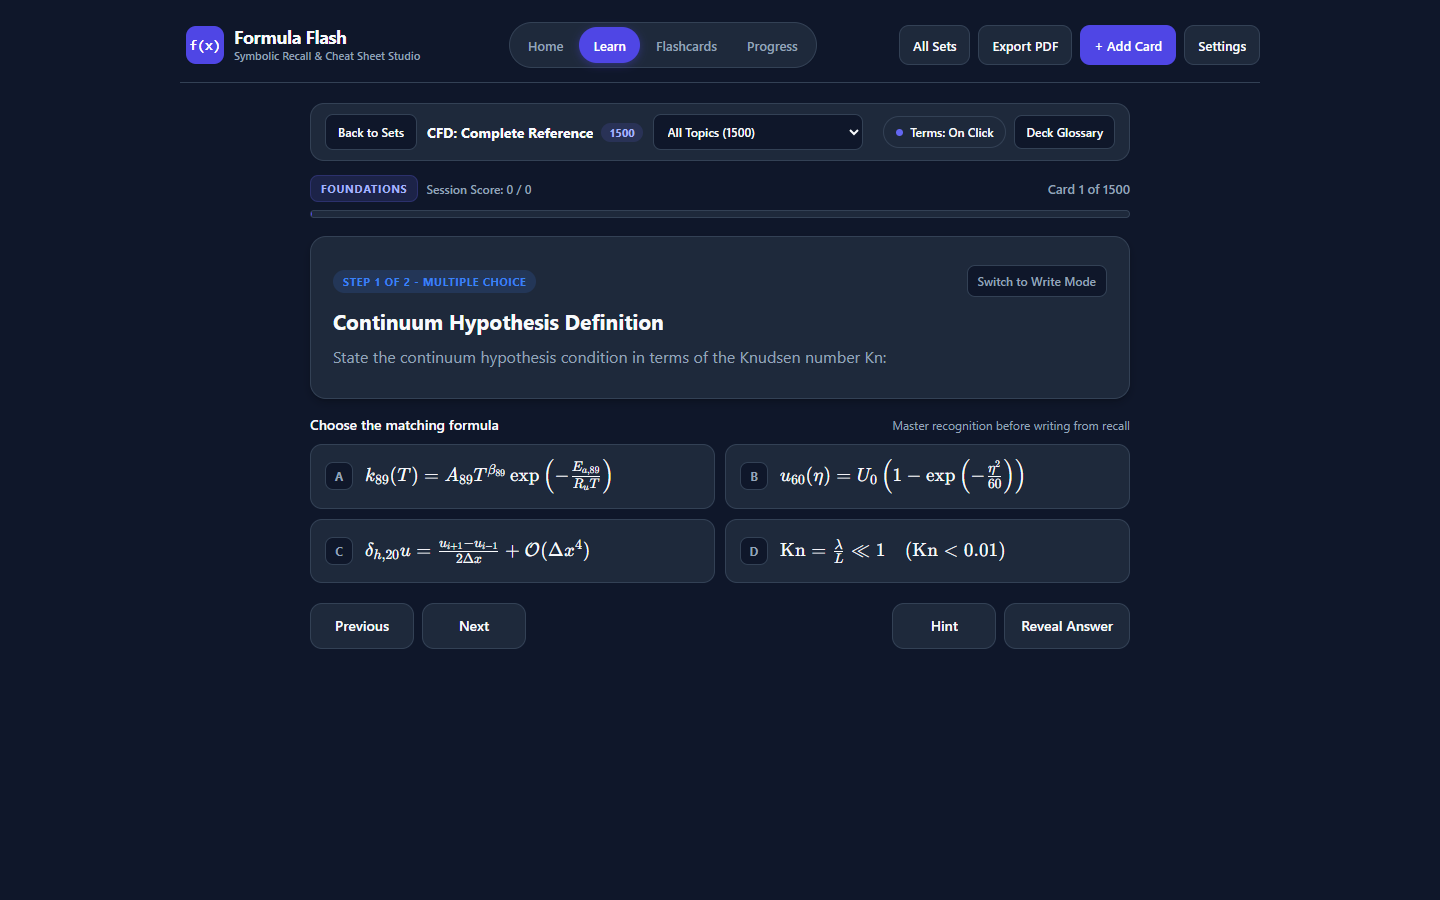
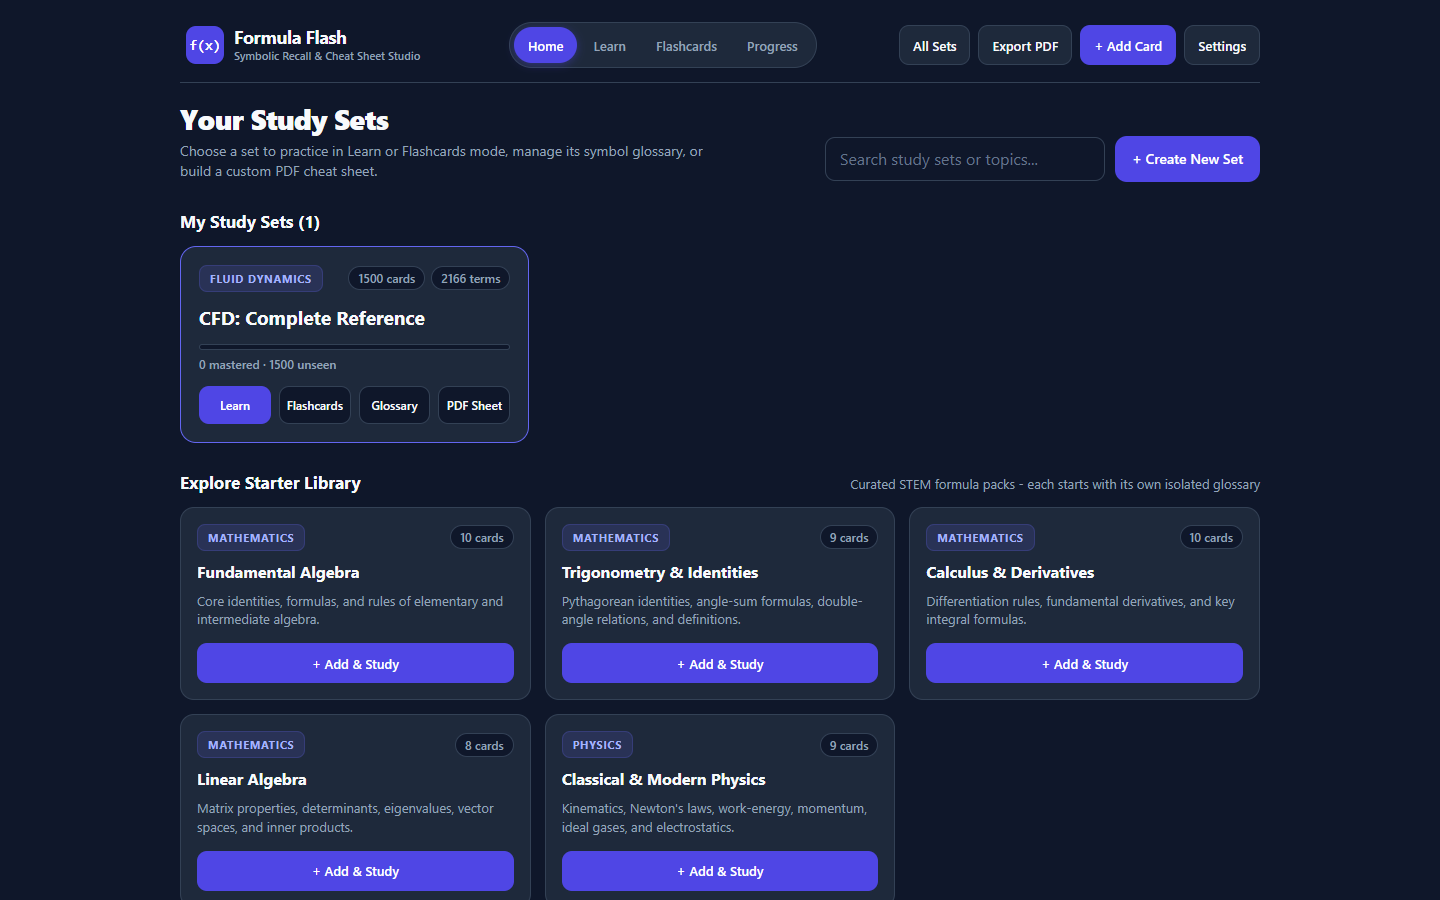
chore: refresh FormulaFlash screenshots, trailing safety section, and CI sync

diff --git a/scripts/capture_screenshots.py b/scripts/capture_screenshots.py
@@ -1,0 +1,89 @@
+"""Capture current desktop and mobile UI screenshots for FormulaFlash."""
+
+from __future__ import annotations
+
+import argparse
+from functools import partial
+from http.server import SimpleHTTPRequestHandler, ThreadingHTTPServer
+from pathlib import Path
+import sys
+import threading
+from typing import Any
+
+from playwright.sync_api import sync_playwright
+
+REPO_DIR = Path(__file__).resolve().parent.parent
+
+
+class QuietStaticHandler(SimpleHTTPRequestHandler):
+    """Static file handler that suppresses HTTP access logs."""
+
+    def log_message(self, format: str, *args: Any) -> None:
+        return
+
+
+def _launch_browser(pw: Any) -> Any:
+    try:
+        return pw.chromium.launch(headless=True)
+    except Exception:  # noqa: 10
+        return pw.chromium.launch(channel="msedge", headless=True)
+
+
+def capture_screenshots(out_dir: Path, dist_dir: Path) -> None:
+    """Serve the built FormulaFlash web bundle and capture desktop and mobile PNGs."""
+    dist_resolved = dist_dir.expanduser().resolve()
+    if not (dist_resolved / "index.html").is_file():
+        raise FileNotFoundError(f"Built bundle missing at {dist_resolved}; run pnpm --filter app run build.")
+
+    out_resolved = out_dir.expanduser().resolve()
+    out_resolved.mkdir(parents=True, exist_ok=True)
+
+    handler_cls = partial(QuietStaticHandler, directory=str(dist_resolved))
+    server = ThreadingHTTPServer(("127.0.0.1", 0), handler_cls)
+    port = int(server.server_address[1])
+    thread = threading.Thread(target=server.serve_forever, daemon=True)
+    thread.start()
+    url = f"http://127.0.0.1:{port}/"
+
+    try:
+        with sync_playwright() as pw:
+            browser = _launch_browser(pw)
+            desktop_ctx = browser.new_context(viewport={"width": 1440, "height": 900}, device_scale_factor=1)
+            page = desktop_ctx.new_page()
+            page.goto(url, wait_until="networkidle")
+            page.wait_for_selector(".home-set-card", timeout=20000)
+            page.wait_for_timeout(800)
+            page.screenshot(path=str(out_resolved / "01_main.png"), full_page=False)
+
+            page.click('[data-testid="mode-tab-study"]')
+            page.wait_for_timeout(600)
+            page.locator("button", has_text="Flip Card").click()
+            page.wait_for_timeout(800)
+            page.screenshot(path=str(out_resolved / "02_flashcards.png"), full_page=False)
+            desktop_ctx.close()
+
+            mobile_ctx = browser.new_context(viewport={"width": 390, "height": 844}, is_mobile=True, device_scale_factor=2)
+            mobile_page = mobile_ctx.new_page()
+            mobile_page.goto(url, wait_until="networkidle")
+            mobile_page.wait_for_selector(".home-set-card", timeout=20000)
+            mobile_page.wait_for_timeout(800)
+            mobile_page.screenshot(path=str(out_resolved / "03_mobile.png"), full_page=False)
+            mobile_ctx.close()
+            browser.close()
+    finally:
+        server.shutdown()
+        server.server_close()
+
+
+def main() -> int:
+    parser = argparse.ArgumentParser(description="Capture FormulaFlash UI screenshots.")
+    parser.add_argument("--out-dir", type=Path, default=REPO_DIR / "assets" / "screenshots")
+    parser.add_argument("--dist-dir", type=Path, default=REPO_DIR / "apps" / "app" / "dist")
+    args = parser.parse_args()
+    capture_screenshots(args.out_dir, args.dist_dir)
+    sys.stdout.write(f"Saved screenshots into {args.out_dir}\n")
+    return 0
+
+
+if __name__ == "__main__":
+    raise SystemExit(main())

diff --git a/README.md b/README.md
@@ -26,11 +26,12 @@ Browse release notes on [All Releases](https://github.com/DontKwo/formulaflash/r
 ## Screenshots
 
 <p align="center">
-  <img src="assets/screenshots/01_main.png" alt="FormulaFlash Learn View" width="760" />
+  <img src="assets/screenshots/01_main.png" alt="FormulaFlash Desktop Study Sets" width="540" />
+  <img src="assets/screenshots/03_mobile.png" alt="FormulaFlash Android Mobile View" width="210" />
 </p>
 
 <p align="center">
-  <img src="assets/screenshots/02_flashcards.png" alt="FormulaFlash Study Deck" width="760" />
+  <img src="assets/screenshots/02_flashcards.png" alt="FormulaFlash Flashcard Study Mode" width="760" />
 </p>
 
 ---
@@ -54,14 +55,6 @@ Browse release notes on [All Releases](https://github.com/DontKwo/formulaflash/r
 
 ---
 
-## Safety & Disclaimers
-
-- **Official `main` Releases Only**: Only download executables or APKs from [DontKwo/formulaflash](https://github.com/DontKwo/formulaflash/releases/latest) (`main` branch). Never download forked releases unless you are certain they contain no malware; only the `main` stream is maintained by the author, and I make no promises.
-- **OS & Phone Security Warnings**: Windows SmartScreen, macOS Gatekeeper, and Android Play Protect will likely warn that independently distributed apps are unrecognized or unsafe. Bypassing those prompts is strictly at your own discretion. Follow [Desktop Installation Guide](docs/INSTALLATION.md) or [Android APK Installation Guide](docs/APK_INSTALLATION.md) for instructions.
-- **AS-IS Disclaimer**: Provided "AS IS" under the [MIT License](LICENSE) with zero warranty or liability. Use at your own risk, verify critical exam formulas independently, and back up your `.flashset` decks regularly.
-
----
-
 ## Documentation
 
 ### User Documentation
@@ -76,7 +69,7 @@ Browse release notes on [All Releases](https://github.com/DontKwo/formulaflash/r
 - [Developer uv Installation](docs/UV_INSTALLATION.md)
 - [Human Setup](docs/HUMAN_SETUP.md)
 
-### AI, Mathematical Proof & Technical Documentation
+### AI & Technical Documentation
 - [AI Agent Rules](AGENTS.md)
 - [System Architecture](docs/ARCHITECTURE.md)
 - [Expression Language Specification](docs/EXPRESSION_LANGUAGE.md)
@@ -88,3 +81,11 @@ Browse release notes on [All Releases](https://github.com/DontKwo/formulaflash/r
 - [Security Policy](SECURITY.md)
 - [Third-Party Notices](THIRD_PARTY_NOTICES.md)
 - [MIT License](LICENSE)
+
+---
+
+## Safety & Disclaimers
+
+- **Official `main` Releases Only**: Only download executables or APKs from [DontKwo/formulaflash](https://github.com/DontKwo/formulaflash/releases/latest) (`main` branch). Never download forked releases unless you are certain they contain no malware; only the `main` stream is maintained by the author, and I make no promises.
+- **OS & Phone Security Warnings**: Windows SmartScreen, macOS Gatekeeper, and Android Play Protect will likely warn that independently distributed apps are unrecognized or unsafe. Bypassing those prompts is strictly at your own discretion. Follow [Desktop Installation Guide](docs/INSTALLATION.md) or [Android APK Installation Guide](docs/APK_INSTALLATION.md) for instructions.
+- **AS-IS Disclaimer**: Provided "AS IS" under the [MIT License](LICENSE) with zero warranty or liability. Use at your own risk, verify critical exam formulas independently, and back up your `.flashset` decks regularly.

diff --git a/docs/INSTALLATION.md b/docs/INSTALLATION.md
@@ -2,15 +2,11 @@
 
 Install and launch FormulaFlash on your computer without Python, Node.js, or developer tools.
 
-## Safety & Authenticity Warning
-
-- **Official `main` Releases Only**: Download FormulaFlash exclusively from [DontKwo/formulaflash Releases](https://github.com/DontKwo/formulaflash/releases/latest).
-- **Fork Warning**: Never download builds from forked repositories unless you have verified the source code yourself and know they do not contain malware. Only official `main` releases are maintained by the author, and I make no promises.
-- **Bypassing Security Prompts**: Because independent open-source executables do not carry paid commercial signing certificates, Windows and macOS will warn that the app is unrecognized or potentially unsafe. Bypassing these warnings is strictly at your own discretion, and the software is provided "AS IS" with zero liability.
-
 ---
 
-## Windows
+## Platform Instructions
+
+### Windows
 
 1. Download `FormulaFlash-Windows.exe` from [Latest Releases](https://github.com/DontKwo/formulaflash/releases/latest).
 2. Double-click `FormulaFlash-Windows.exe` to open the desktop app.
@@ -21,7 +17,7 @@ Install and launch FormulaFlash on your computer without Python, Node.js, or dev
 
 ---
 
-## macOS
+### macOS
 
 1. Download `FormulaFlash-macOS.zip` from [Latest Releases](https://github.com/DontKwo/formulaflash/releases/latest).
 2. Double-click the archive to unpack it and drag **`FormulaFlash.app`** (or the `FormulaFlash` binary) into your **Applications** folder.
@@ -33,12 +29,20 @@ Install and launch FormulaFlash on your computer without Python, Node.js, or dev
 
 ---
 
-## Linux
+### Linux
 
 1. Download `FormulaFlash-Linux.tar.gz` from [Latest Releases](https://github.com/DontKwo/formulaflash/releases/latest).
 2. Extract the archive in your file manager (or run `tar -xzf FormulaFlash-Linux.tar.gz`).
 3. Make the extracted binary executable (right-click -> **Properties** -> **Permissions** -> allow executing as program, or run `chmod +x FormulaFlash`).
 4. Double-click `FormulaFlash` to launch.
+
+---
+
+## Safety & Authenticity Warning
+
+- **Official `main` Releases Only**: Download FormulaFlash exclusively from [DontKwo/formulaflash Releases](https://github.com/DontKwo/formulaflash/releases/latest).
+- **Fork Warning**: Never download builds from forked repositories unless you have verified the source code yourself and know they do not contain malware. Only official `main` releases are maintained by the author, and I make no promises.
+- **Bypassing Security Prompts**: Because independent open-source executables do not carry paid commercial signing certificates, Windows and macOS will warn that the app is unrecognized or potentially unsafe. Bypassing these prompts is strictly at your own discretion, and the software is provided "AS IS" with zero liability.
 
 ---
 

diff --git a/docs/APK_INSTALLATION.md b/docs/APK_INSTALLATION.md
@@ -2,13 +2,6 @@
 
 Install the standalone FormulaFlash Android app directly on your Android phone or tablet (Android 8 through Android 15, including Pixel and Samsung Galaxy One UI).
 
-## Safety & Authenticity Warning
-
-- **Security Prompts Are Expected**: Your phone will likely tell you the app is unrecognized, unverified, or potentially unsafe because this `.apk` is distributed directly from GitHub outside the Google Play Store.
-- **Official `main` Releases Only**: Only `.apk` files published on the official [DontKwo/formulaflash Releases](https://github.com/DontKwo/formulaflash/releases/latest) page (`main` branch) are maintained by the author.
-- **Fork Warning**: Never download forked `.apk` releases unless you are completely sure they do not contain malware. Only official `main` releases have no malware to the best of the author's knowledge, and I still make no promises.
-- **Your Discretion & Zero Liability**: Bypassing Android security prompts is strictly at your own discretion. This software is provided "AS IS" under the [MIT License](../LICENSE) with zero warranty or liability.
-
 ---
 
 ## Step 1: Download the Official APK
@@ -73,6 +66,15 @@ After **FormulaFlash** finishes installing:
 1. Turn **Allow from this source** back **Off** for your browser or file manager.
 2. Confirm **Google Play Protect** scanning is **On**.
 3. On Samsung Galaxy devices, turn **Auto Blocker** back **On**.
+
+---
+
+## Safety & Authenticity Warning
+
+- **Security Prompts Are Expected**: Your phone will likely tell you the app is unrecognized, unverified, or potentially unsafe because this `.apk` is distributed directly from GitHub outside the Google Play Store.
+- **Official `main` Releases Only**: Only `.apk` files published on the official [DontKwo/formulaflash Releases](https://github.com/DontKwo/formulaflash/releases/latest) page (`main` branch) are maintained by the author.
+- **Fork Warning**: Never download forked `.apk` releases unless you are completely sure they do not contain malware. Only official `main` releases have no malware to the best of the author's knowledge, and I still make no promises.
+- **Your Discretion & Zero Liability**: Bypassing Android security prompts is strictly at your own discretion. This software is provided "AS IS" under the [MIT License](../LICENSE) with zero warranty or liability.
 
 ---
 

diff --git a/docs/UV_INSTALLATION.md b/docs/UV_INSTALLATION.md
@@ -6,17 +6,19 @@ Developers building macOS/Linux desktop wrappers or executing the strict reposit
 
 ---
 
-## Windows
+## Platform Instructions
+
+### Windows
 
 Choose either the official standalone installer or a Windows package manager:
 
-### Official Standalone Installer (PowerShell)
+**Official Standalone Installer (PowerShell)**
 
 ```powershell
 powershell -ExecutionPolicy ByPass -c "irm https://astral.sh/uv/install.ps1 | iex"
 ```
 
-### Package Managers (`winget` or `scoop`)
+**Package Managers (`winget` or `scoop`)**
 
 ```powershell
 winget install --id=astral-sh.uv -e
@@ -26,17 +28,17 @@ scoop install main/uv
 
 ---
 
-## macOS
+### macOS
 
 Choose either the official standalone installer or a macOS package manager:
 
-### Official Standalone Installer
+**Official Standalone Installer**
 
 ```bash
 curl -LsSf https://astral.sh/uv/install.sh | sh
 ```
 
-### Package Managers (Homebrew or MacPorts)
+**Package Managers (Homebrew or MacPorts)**
 
 ```bash
 brew install uv
@@ -46,11 +48,11 @@ sudo port install uv
 
 ---
 
-## Linux
+### Linux
 
 Choose the official standalone installer (`curl` or `wget`) or `pipx`:
 
-### Official Standalone Installer
+**Official Standalone Installer**
 
 ```bash
 curl -LsSf https://astral.sh/uv/install.sh | sh
@@ -62,7 +64,7 @@ With `wget`:
 wget -qO- https://astral.sh/uv/install.sh | sh
 ```
 
-### Isolated PyPI Install (`pipx`, All Platforms)
+**Isolated PyPI Install (`pipx`, All Platforms)**
 
 ```bash
 pipx install uv

diff --git a/docs/USER_GUIDE.md b/docs/USER_GUIDE.md
@@ -5,7 +5,7 @@ Welcome to the Formula Flash user guide! This document will walk you through how
 ## 1. Creating and Managing Sets
 
 ### Creating a New Set
-1. On the home screen, click the **Plus (+)** button.
+1. On the home screen, click **+ Create New Set**.
 2. Give your set a descriptive title (e.g., "Calculus 101" or "Physics Kinematics").
 3. You will be taken to the set editor where you can begin adding cards.
 
